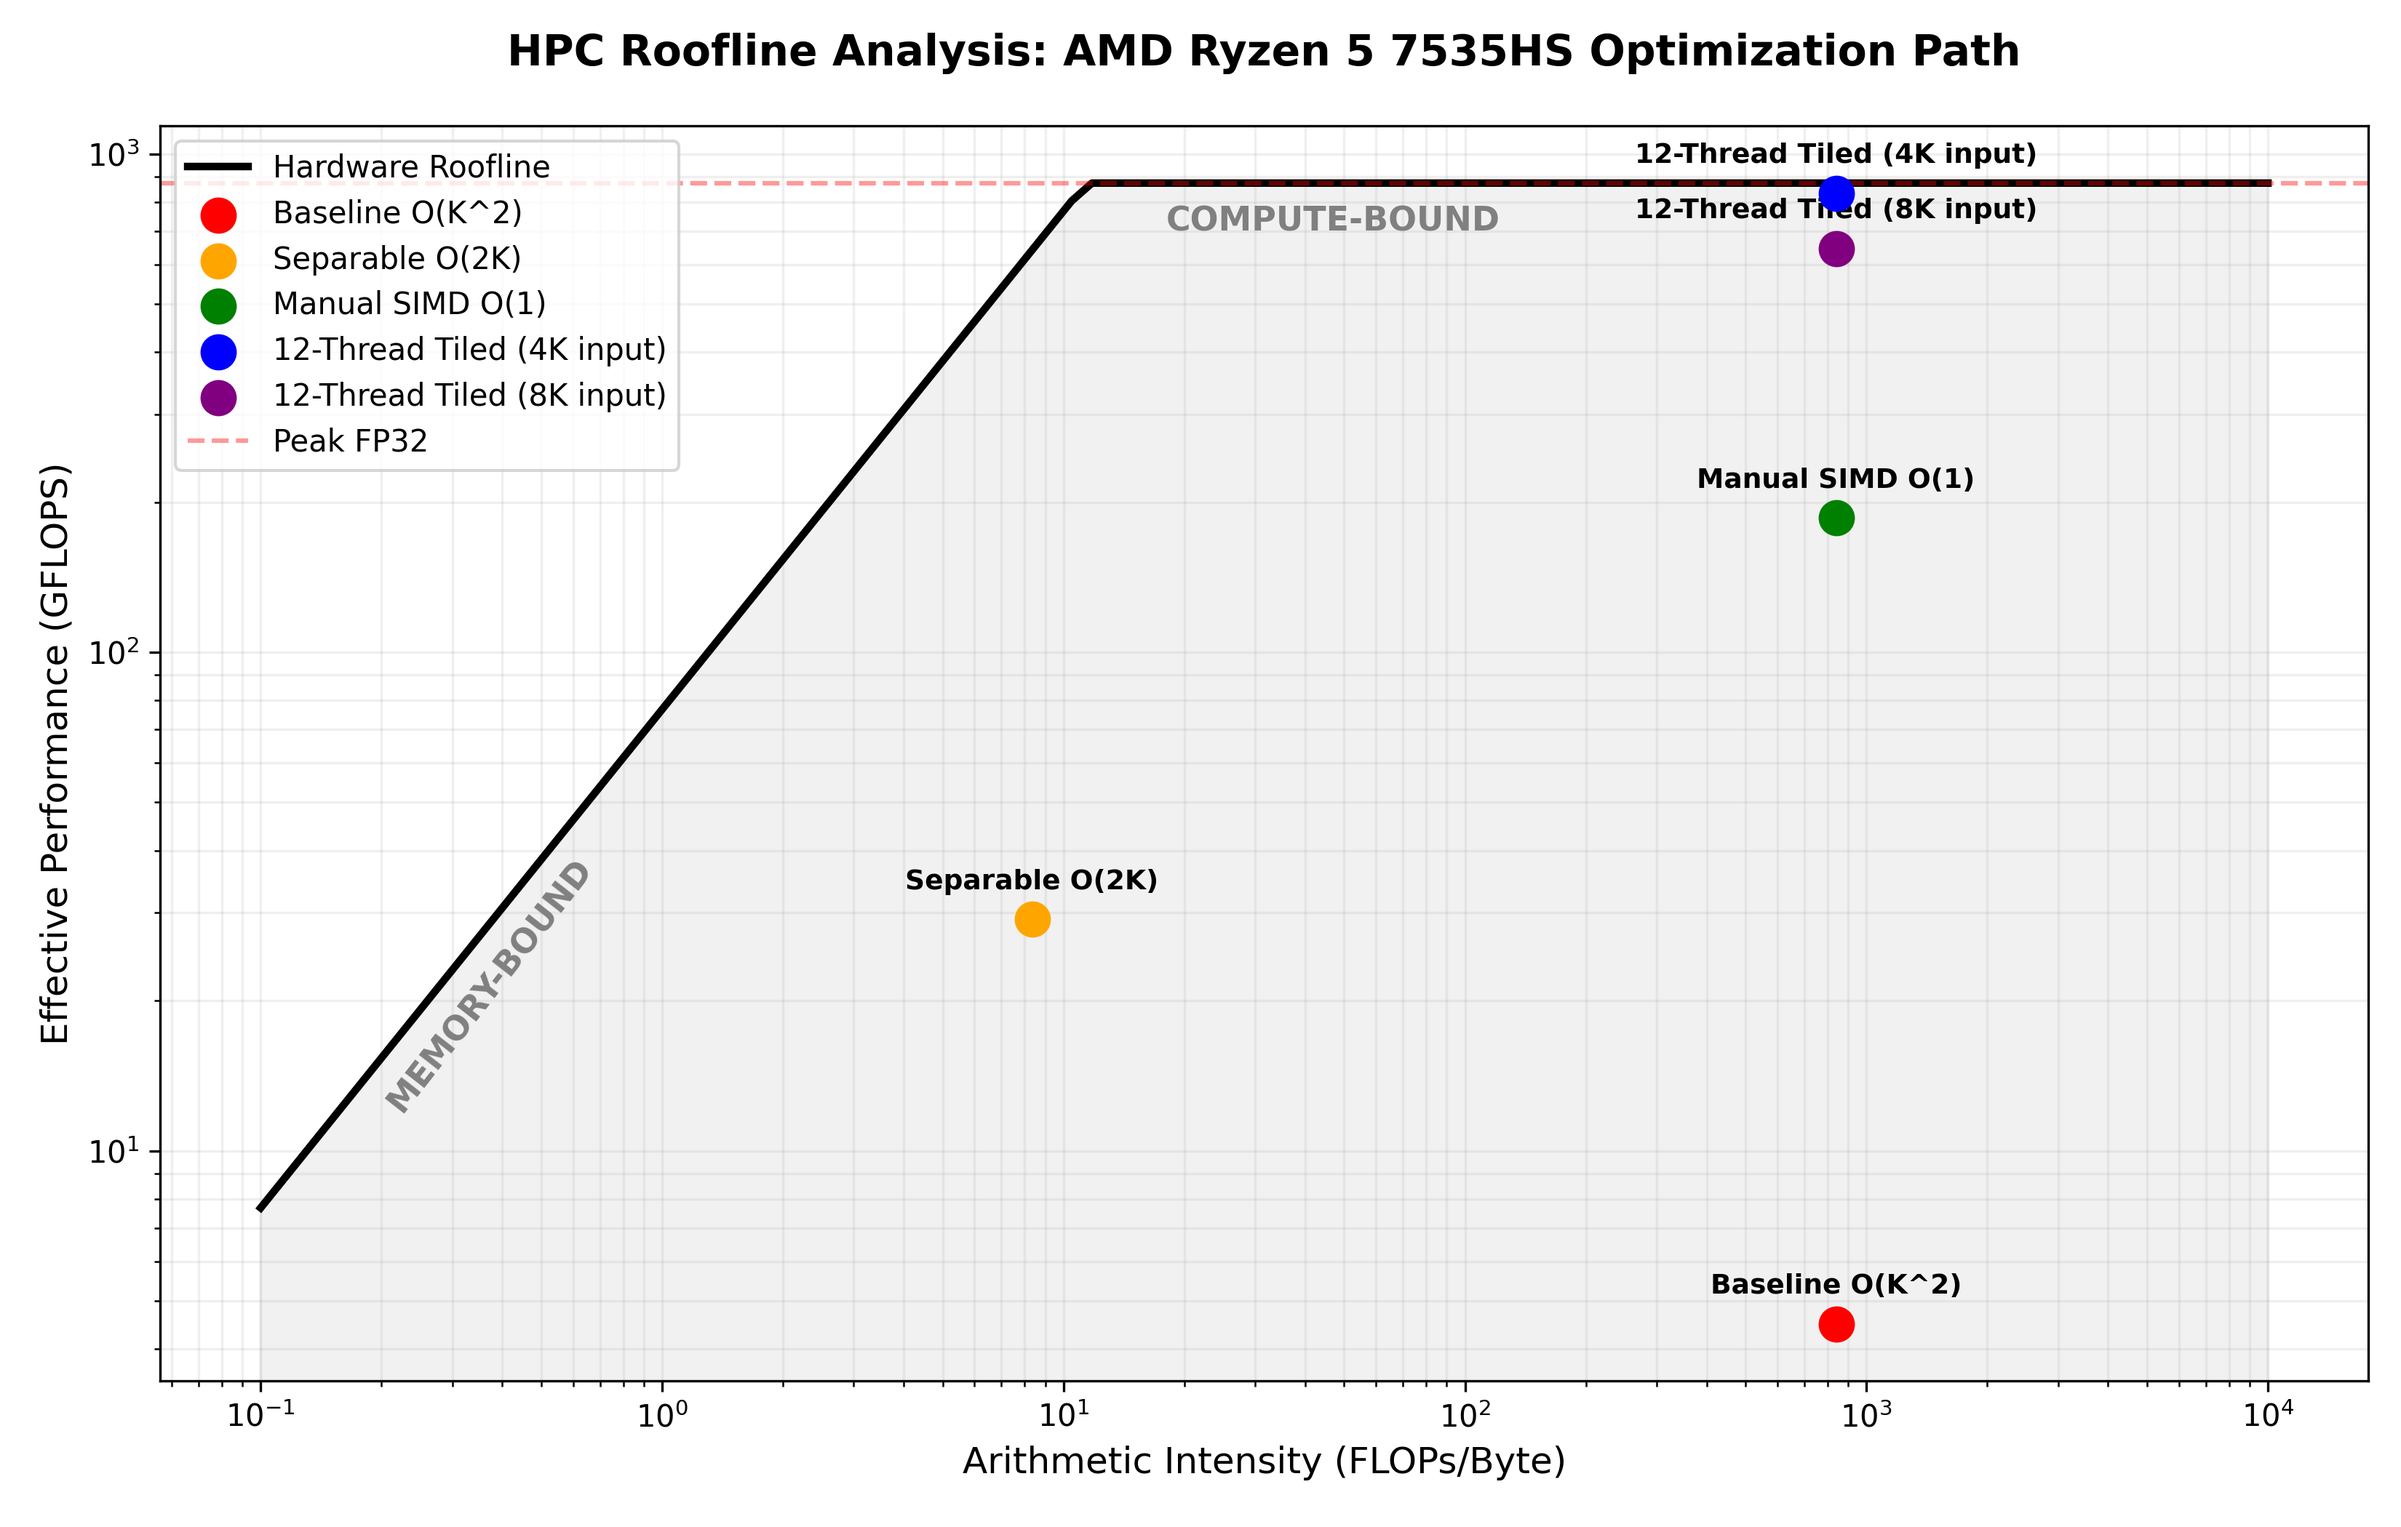
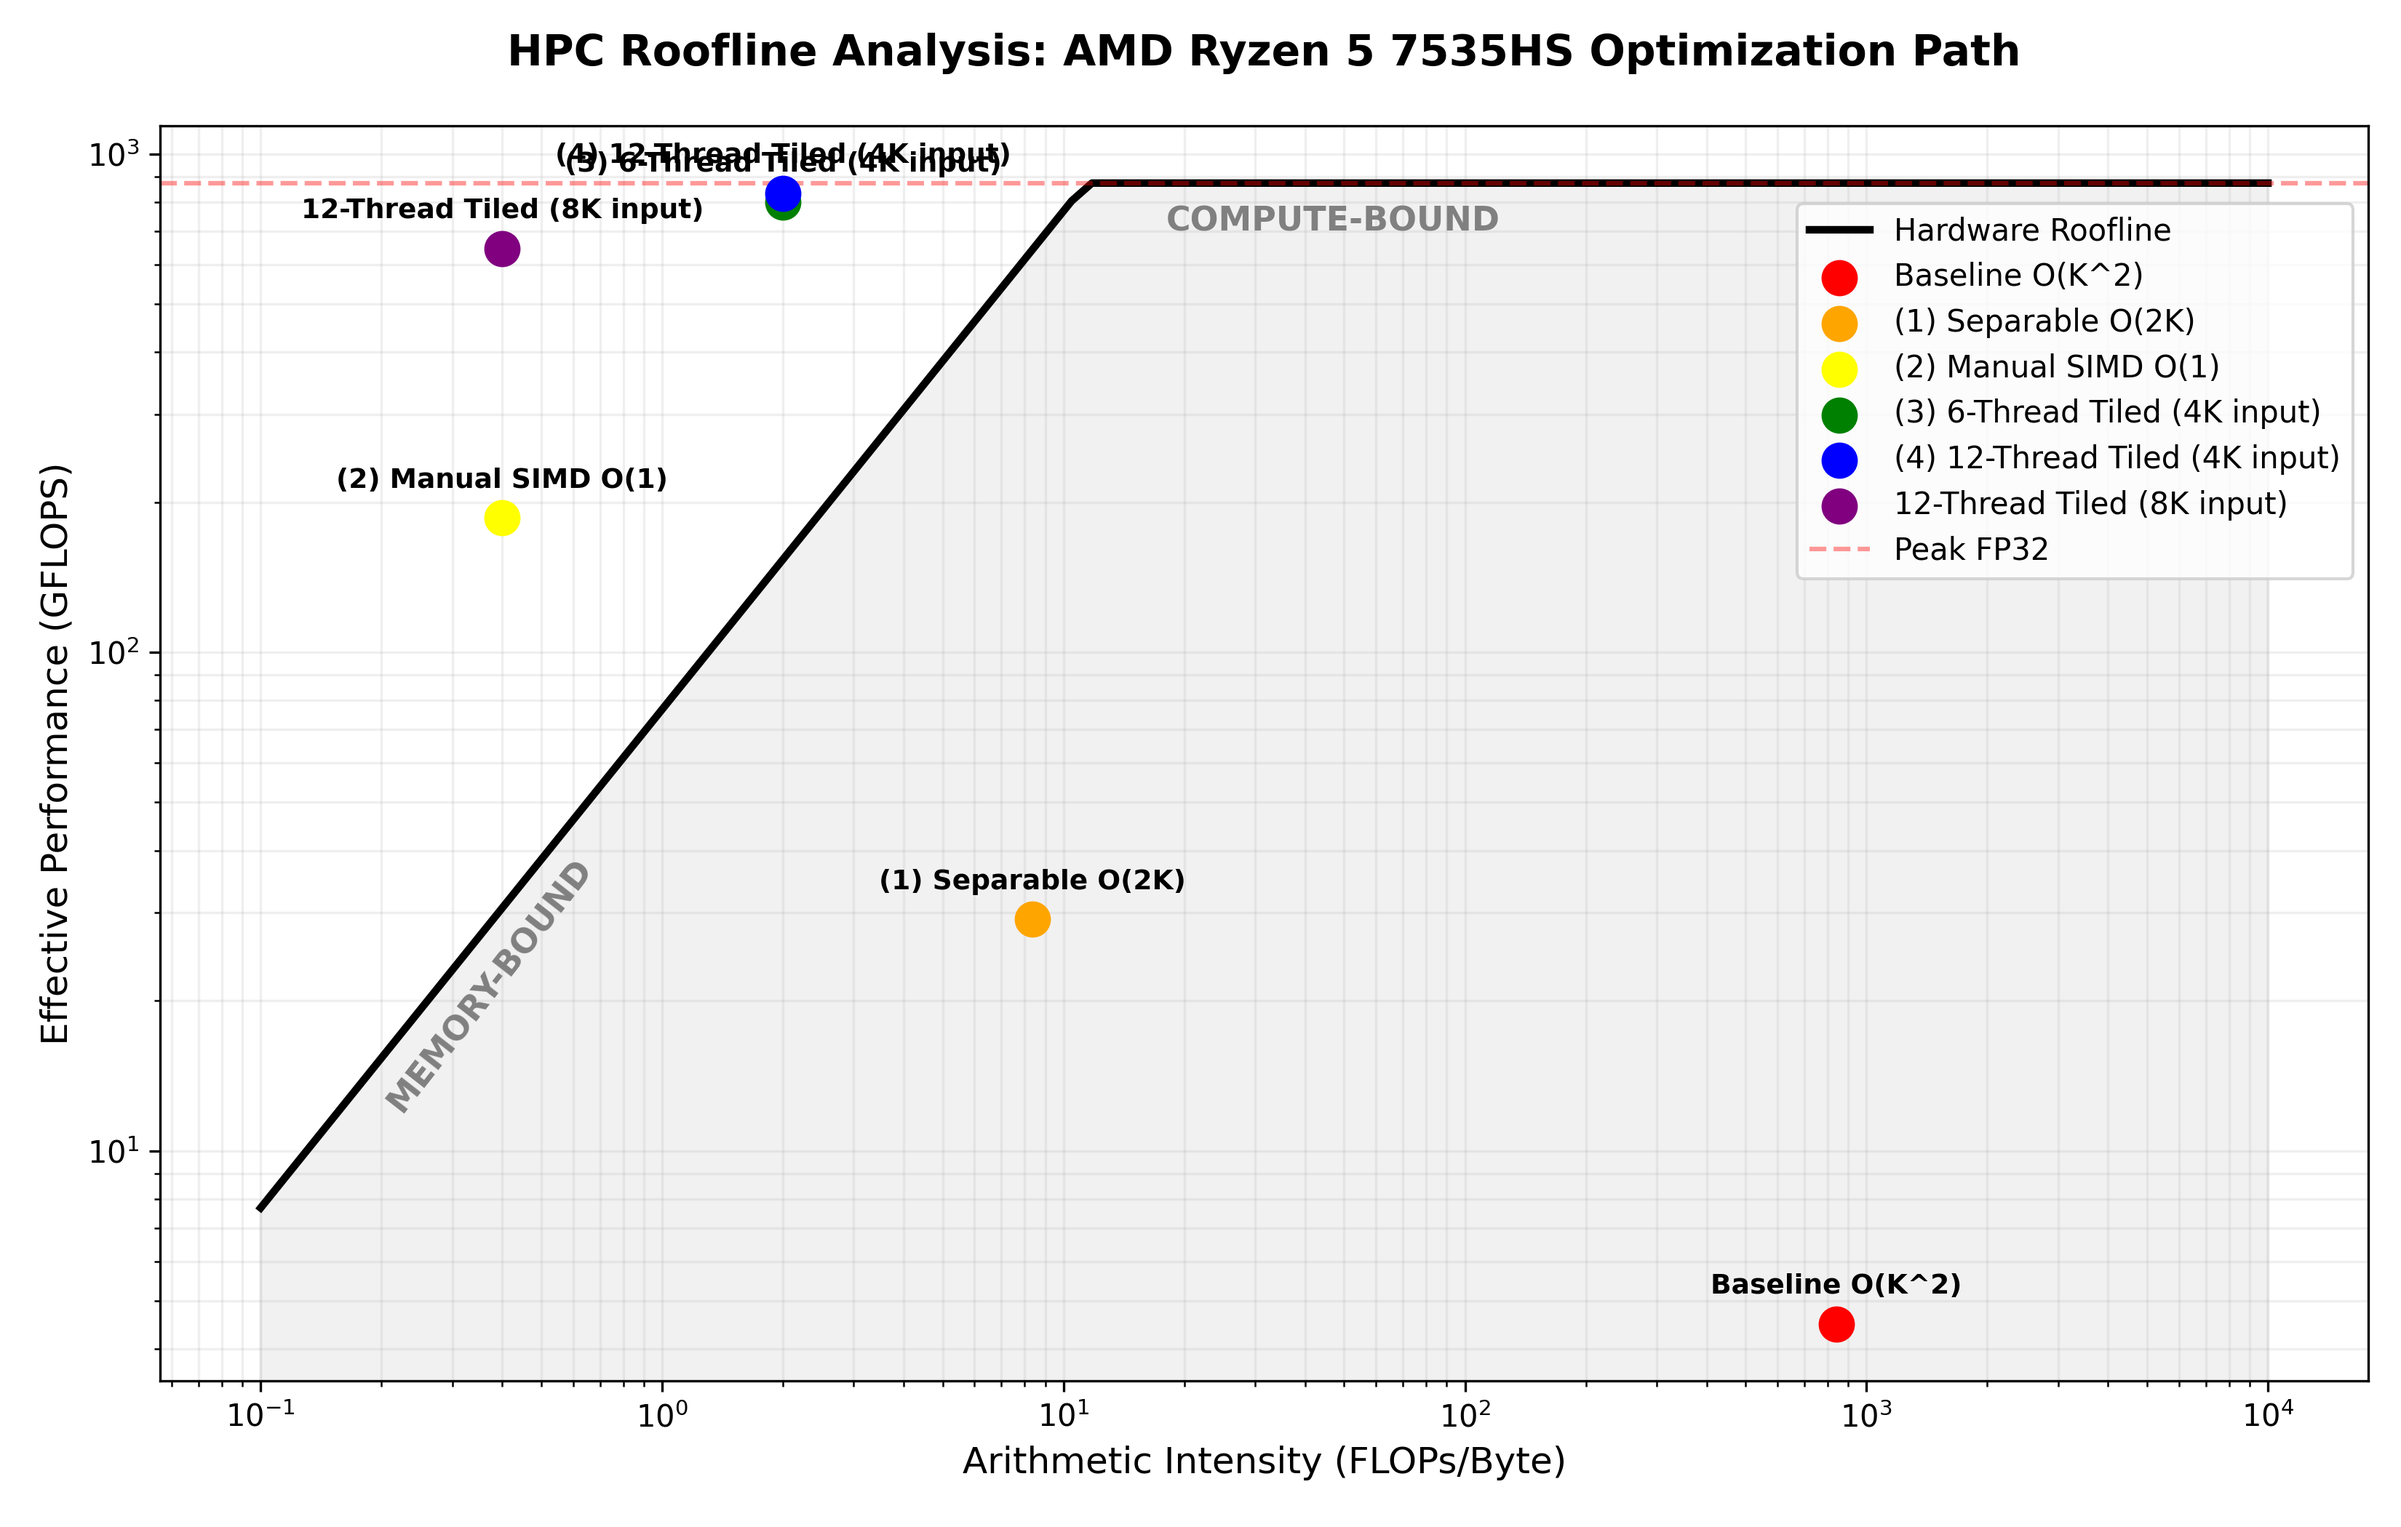
Adjust the roofline

Changed region(s): [[0.0624, 0.0929, 0.437, 0.3714], [0.6867, 0.0929, 0.9676, 0.3714], [0.3745, 0.5571, 0.4994, 0.5881]]

diff --git a/scripts/plot_convolution_roofline.py b/scripts/plot_convolution_roofline.py
@@ -15,29 +15,36 @@ points = [
         "marker": "o",
     },
     {
-        "name": "Separable O(2K)",
+        "name": "(1) Separable O(2K)",
         "ai": 8.35,
         "gflops": 29.13,
         "color": "orange",
         "marker": "o",
     },
     {
-        "name": "Manual SIMD O(1)",
-        "ai": 840,
-        "gflops": 186.0,
+        "name": "(2) Manual SIMD O(1)",
+        "ai": 0.4,
+        "gflops": 186,
+        "color": "yellow",
+        "marker": "o",
+    },
+    {
+        "name": "(3) 6-Thread Tiled (4K input)",
+        "ai": 2.0,
+        "gflops": 800,
         "color": "green",
         "marker": "o",
     },
     {
-        "name": "12-Thread Tiled (4K input)",
-        "ai": 840,
+        "name": "(4) 12-Thread Tiled (4K input)",
+        "ai": 2.0,
         "gflops": 833.17,
         "color": "blue",
         "marker": "o",
     },
     {
         "name": "12-Thread Tiled (8K input)",
-        "ai": 840,
+        "ai": 0.4,
         "gflops": 645.49,
         "color": "purple",
         "marker": "o",
@@ -93,7 +100,9 @@ plt.text(
 )
 plt.text(18, 700, "COMPUTE-BOUND", color="gray", fontsize=11, fontweight="bold")
 
-plt.legend(loc="upper left", frameon=True, fontsize=10)
+
+plt.legend(loc="upper right", bbox_to_anchor=(1.0, 0.95), frameon=True, fontsize=10)
+
 plt.tight_layout()
 plt.savefig("../assets/convolution_roofline.png", dpi=300)
 plt.show()

diff --git a/README.md b/README.md
@@ -114,6 +114,10 @@ $$S = \frac{T_{base}}{T_{new}}$$
 
 To measure true hardware speed, I'm trying to filter out unpredictable system noise. First, my benchmarking engine performs an untimed "warm-up" run to load data into the CPU caches. Then, it times the code across multiple runs and reports the _minimum execution time_. I prefer the minimum time over the average because it shows the absolute fastest the hardware can perform when it is not interrupted by background operating system tasks.
 
+#### Profiling
+
+I used the Linux `perf` tool to see exactly how the hardware handles the code. By tracking Instructions Per Cycle (IPC), cache misses, and branch errors, I can show how each change improves performance on the Zen 3+ chip. This data proves that the speed gains are real and shows exactly when the memory bandwidth becomes the final limit for the system.
+
 ## The Baseline
 
 To start this experiment, I need a strong serial baseline. It is not enough to write naive code; I wanted to see the maximum possible speed for a naive _algorithm_ on a single core.
@@ -140,7 +144,11 @@ The baseline serial implementation retired the workload in 4567.8 ms. This yield
 - **Throughput ($G$)**: 4.49 GFLOPS
 - **Hardware Efficiency ($\eta_{hw}$)**: 3.08% - relative to 145.6 GFLOPS (Single Core)
 - **Speedup ($S$)**: 1.0
+- **IPC**: 3.74 - instructions-per-cycle, peak dispatch IPC is 6.0
+- **L1-dcache Miss Rate**: 0.24%
 - **Roofline Position**: Compute-Bound
+
+The high IPC of 3.74 and negligible branch misses (0.00%) prove the baseline is execution-optimal but algorithmically bankrupt. The CPU is effectively saturated, but it is trapped in the $O(K^2)$ "compute-well," retiring 796 billion instructions to complete a single convolution. The bottleneck is pure mathematical volume, not hardware inefficiency.
 
 ## Stage 1: Separable Convolution
 
@@ -167,7 +175,12 @@ By transitioning to a Separable Convolution ($O(2K)$), the execution time droppe
 - **Hardware Efficiency ($\eta_{hw}$)**: 0.99% - relative to 145.6 GFLOPS (Single Core)
 - **Speedup ($S$)**: 6.49x
 - **Roofline Position**: Compute-Bound
+- **Instructions Retired**: 52.2B (93% reduction vs baseline)
+- **IPC**: 2.80
+- **L1-dcache Miss Rate**: 4.66%
 - **Arithmetic Intensity ($I$)**: ~8.35 FLOPs/Byte - down from 840; moving toward Memory-Bound
+
+The algorithmic shift to $O(K)$ provides a massive win, but it introduces a hardware efficiency trade-off. The IPC dropped from 3.74 to 2.80, and L1 cache misses spiked to 4.66%. This is the footprint of the vertical pass: accessing non-contiguous row data and managing the 48.8 MB intermediate buffer. The bottleneck has officially shifted from "math volume" to "memory access patterns.
 
 ## Stage 2: Manual SIMD
 
@@ -201,6 +214,12 @@ The implementation reaches an Effective Throughput of 185.99 GFLOPS. While this 
 - **Raw GFLOPS**: ~0.88 GFLOPS
 - **Hardware Efficiency ($\eta_{hw}$)**: 0.6% - relative to 145.6 GFLOPS (Single Core)
 - **Speedup ($S$)**: 41.45x
+- **Instructions Retired**: 2.56B - 95% reduction vs Stage 1
+- **IPC**: 1.67
+- **L1-dcache Miss Rate**: 4.32%
+- **Arithmetic Intensity**: ~0.4 FLOPs/byte
+
+The transition to a sliding-window $O(1)$ algorithm reduced the total instruction count from 52.2B to a mere 2.56B. However, the IPC fell to 1.67, and the L1 miss rate remains high at 4.32%. This indicates that the bottleneck has fundamentally shifted: the CPU is no longer limited by how fast it can calculate, but by how fast it can fetch data from the 48.8 MB intermediate buffer. The engine is now "memory-bound," setting the stage for cache-aware tiling.
 
 ## Stage 3: Scaling with 6 Physical Cores
 
@@ -228,6 +247,12 @@ The 6-thread Tiled AVX2 implementation takes 25.6 ms and reaches an Effective Th
 - **Raw GFLOPS**: ~3.95 GFLOPS
 - **Hardware Efficiency ($\eta_{hw}$)**: 91.6% - relative to 6-core FP32 peak
 - **Parallel Scaling**: 4.30x - Speedup from 1 to 6 physical cores
+- **IPC**: 2.31 - up from 1.67
+- **Page Faults**: 13,636 (91% reduction)
+- **Instructions Retired**: 1.87B (27% reduction vs Stage 2)
+- **Arithmetic Intensity**: ~2.0 FLOPs/byte
+
+The "DRAM tax" has been successfully repealed. The massive drop in page faults confirms that the tiling strategy successfully contained the working set within the 16 MiB L3 cache, preventing the OS from constantly re-mapping virtual memory. Furthermore, the IPC jump to 2.31 proves the pipeline is finally being fed efficiently. The 27% reduction in total instructions indicates that tiling didn't just help the cache—it streamlined the loop logic and improved data reuse across the kernel.
 
 ## Stage 4: Testing 12 Threads with SMT
 
@@ -244,6 +269,12 @@ The implementation achieves an Effective Throughput of 833.17 GFLOPS, which is 9
 - **Raw GFLOPS**: ~3.95 GFLOPS
 - **Hardware Efficiency ($\eta_{hw}$)**: 0.45% - Raw ALU utilization (low due to $O(1)$)
 - **SMT Benefit**: ~4% - Comparison of 6 threads vs. 12 threads
+- **Per-Core IPC**: 2.56 - highest recorded
+- **L1-dcache Miss Rate**: 6.62%
+- **Instructions Retired**: 1.88B
+- **Arithmetic Intensity**: ~2.0 FLOPs/byte
+
+The jump to 2.56 IPC indicates the Zen 3+ pipeline is completely saturated. Because the total instruction count (1.88B) and cache miss rate (6.62%) remained identical to the 6-core run, it is evident that the 12 logical threads are competing for the same physical AVX2 execution units. This validates that for an $O(1)$ sliding-window kernel, the bottleneck is no longer instruction latency but physical ALU availability. SMT offers no additional throughput here because there are no execution bubbles to fill.
 
 Increasing the thread count to 12 (using SMT) only improves performance by 4%. This shows that the code has reached the limit of the physical cores and is now limited by memory bandwidth. At this point, the bottleneck is no longer calculation speed, but the speed of data transfer across the memory bus.
 
@@ -262,6 +293,15 @@ The baseline execution time increased to 28,095.6 ms, but the tiled AVX2 version
 - **Effective GFLOPS**: 645.49 GFLOPS - 73.9% of Full Chip Peak (873.6)
 - **Workload ($N_{ops}$)**: 74.36 GFLOPs - 3.6x more work than the 4K test
 - **Scaling Efficiency**: 77.5% - relative to 4K GFLOPS (833.2)
+- **IPC: 0.19** - 13x collapse vs 4K
+- **L1-dcache Miss Rate**: 25.86% - 4x increase vs 4K
+- **Branch Misses**: 6.34%
+- **System Time**: >95% of total task time
+- **Arithmetic Intensity**: ~0.4 FLOPs/byte
+
+At 8K resolution, the software-hardware contract breaks. The 0.19 IPC and 25.86% L1 miss rate represent a total pipeline stall; the Zen 3+ cores are spending nearly 90% of their cycles waiting for data from the DDR5 bus. The spike in branch misses (6.34%) suggests that the prefetcher can no longer accurately guess the next data block across such a massive memory footprint. This confirms that once the working set exceeds the 16 MiB L3 cache, algorithmic $O(1)$ efficiency is held hostage by the physical bandwidth of the memory controller.
+
+_Note: `user` time was 0.009s while `sys` was 0.20s. This is a critical detail. It shows the CPU wasn't just slow; the OS was actively struggling with memory management (paging/TLB pressure) for the 176 MB intermediate buffer._
 
 ## Scaling Up: Moving to MPI
 
